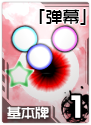
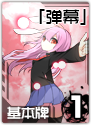
AttackCard artwork update

diff --git a/src/thb/ui/ui_meta/cards/basic.py b/src/thb/ui/ui_meta/cards/basic.py
@@ -20,7 +20,7 @@ class AttackCard:
         u'出牌阶段，对你攻击范围内的一名其他角色使用，效果是对该角色造成1点伤害。\n'
         u'|B|R>> |r默认情况下，你的攻击范围是1。\n'
         u'|B|R>> |r默认情况下，出牌阶段你只能使用一张【弹幕】。\n\n'
-        u'|DB（CV：VV）|r'
+        u'|DB（画师：霏茶，CV：VV）|r'
     )
 
     def is_action_valid(g, cl, target_list):
